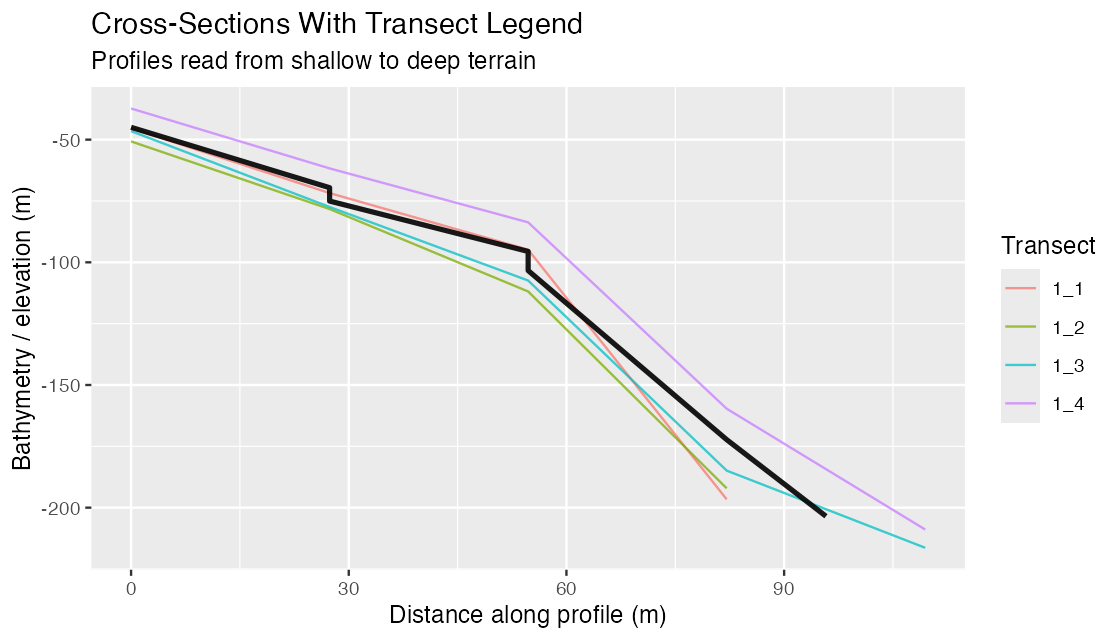
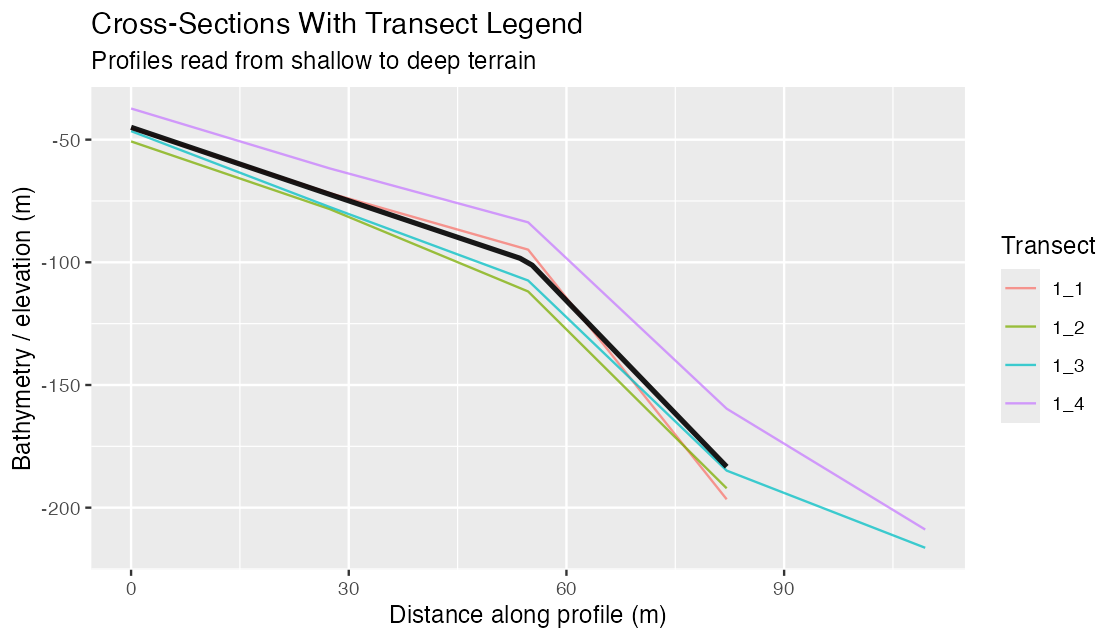
Fix mean cross-section profile averaging

diff --git a/qa/visual-proof/visual-proof.md b/qa/visual-proof/visual-proof.md
@@ -1,15 +1,15 @@
 # blueterra Visual Proof
 
-- Date/time: 2026-07-09 23:21:24 AST
-- Git commit: 662a69195963632c69de7987172bb19be40fc863
+- Date/time: 2026-07-09 23:53:48 AST
+- Git commit: a56cdd2851b93ea4b69632ac742dfecfad1bf028
 - Working tree dirty at proof start: TRUE
-- Dirty paths at proof start:  M R/plotting.R;  M R/transects.R;  M R/utils.R;  M README.Rmd;  M README.md;  M man/figures/README-profile-and-corridors-1.png;  M man/plot_cross_sections.Rd;  M man/plot_depth_profile.Rd;  M qa/visual-proof/visual-proof.R;  M tests/testthat/test-plotting.R;  M tests/testthat/test-website-metadata.R;  M vignettes/blueterra.Rmd;  M vignettes/transects-cross-sections.Rmd
+- Dirty paths at proof start:  M R/transects.R;  M man/figures/README-profile-and-corridors-1.png;  M qa/visual-proof/figures/18-cross-sections-with-legend.png;  M qa/visual-proof/visual-proof.md;  M tests/testthat/test-plotting.R
 - R version: R version 4.5.3 (2026-03-11)
 - Package version: 0.1.0
 - System: Darwin 25.2.0 arm64
 - Package tarball: blueterra_0.1.0.tar.gz
-- Package tarball size: 4489940 bytes
-- Package tarball size: 4.49 MB
+- Package tarball size: 4484410 bytes
+- Package tarball size: 4.484 MB
 - Local pkgdown site: /Users/ec/Documents/Data/MCE Geomorphometry HW v HY/Geomorphic_Analysis_Project/blueterra/docs/index.html
 - Expected GitHub Pages URL: https://el-cordero.github.io/blueterra/
 - Deployment workflow: .github/workflows/pkgdown.yaml